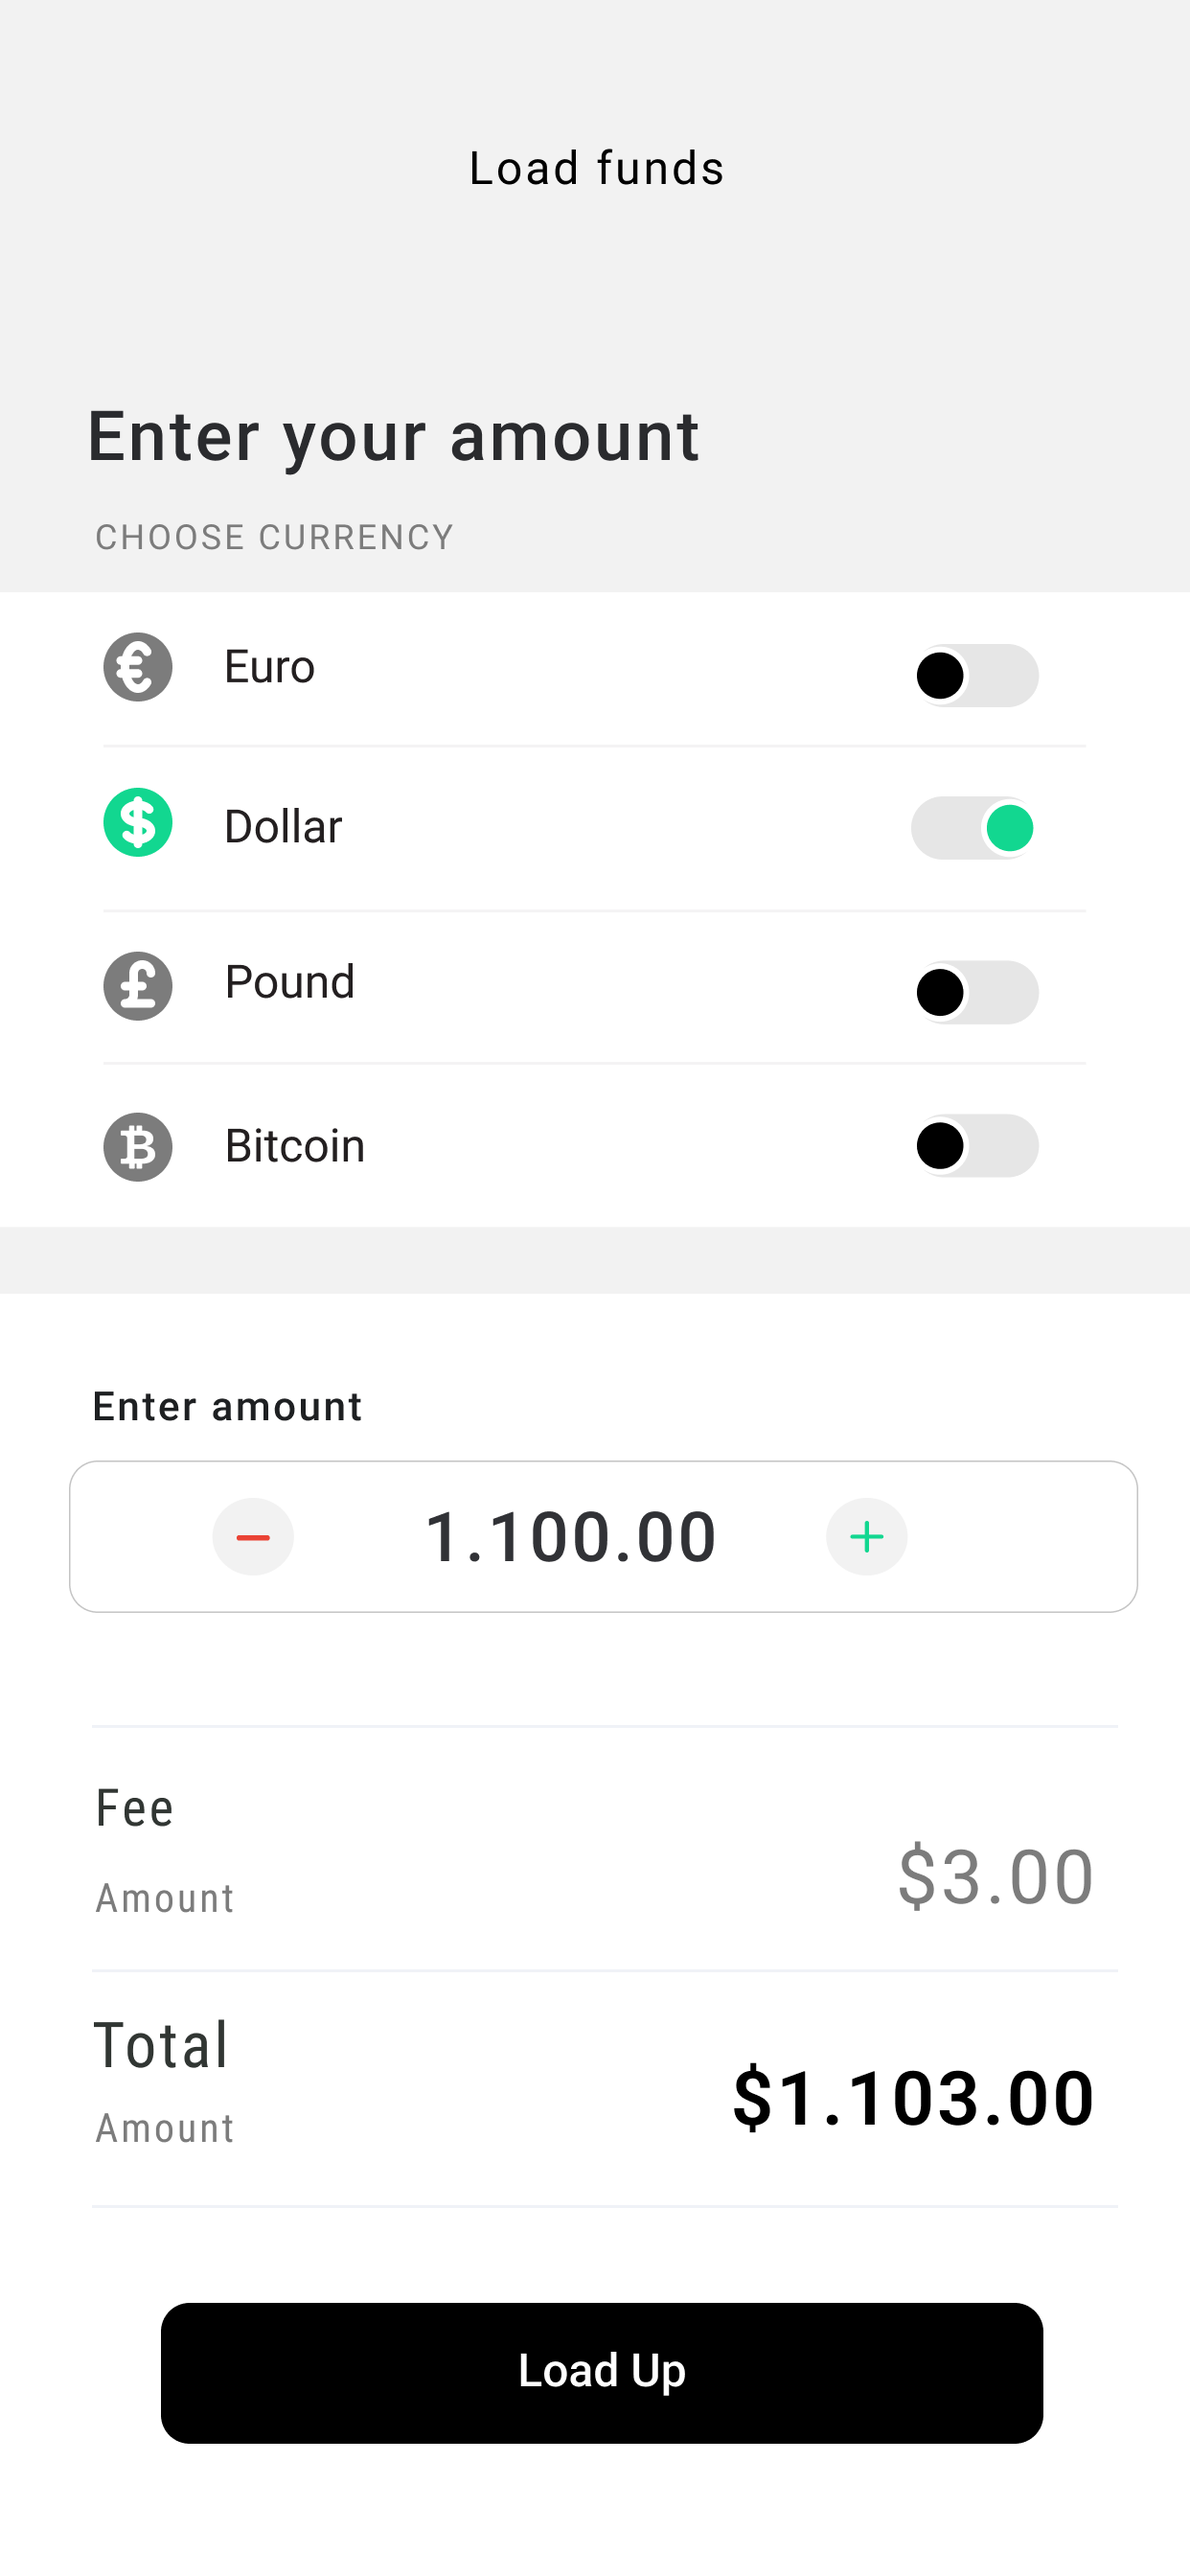
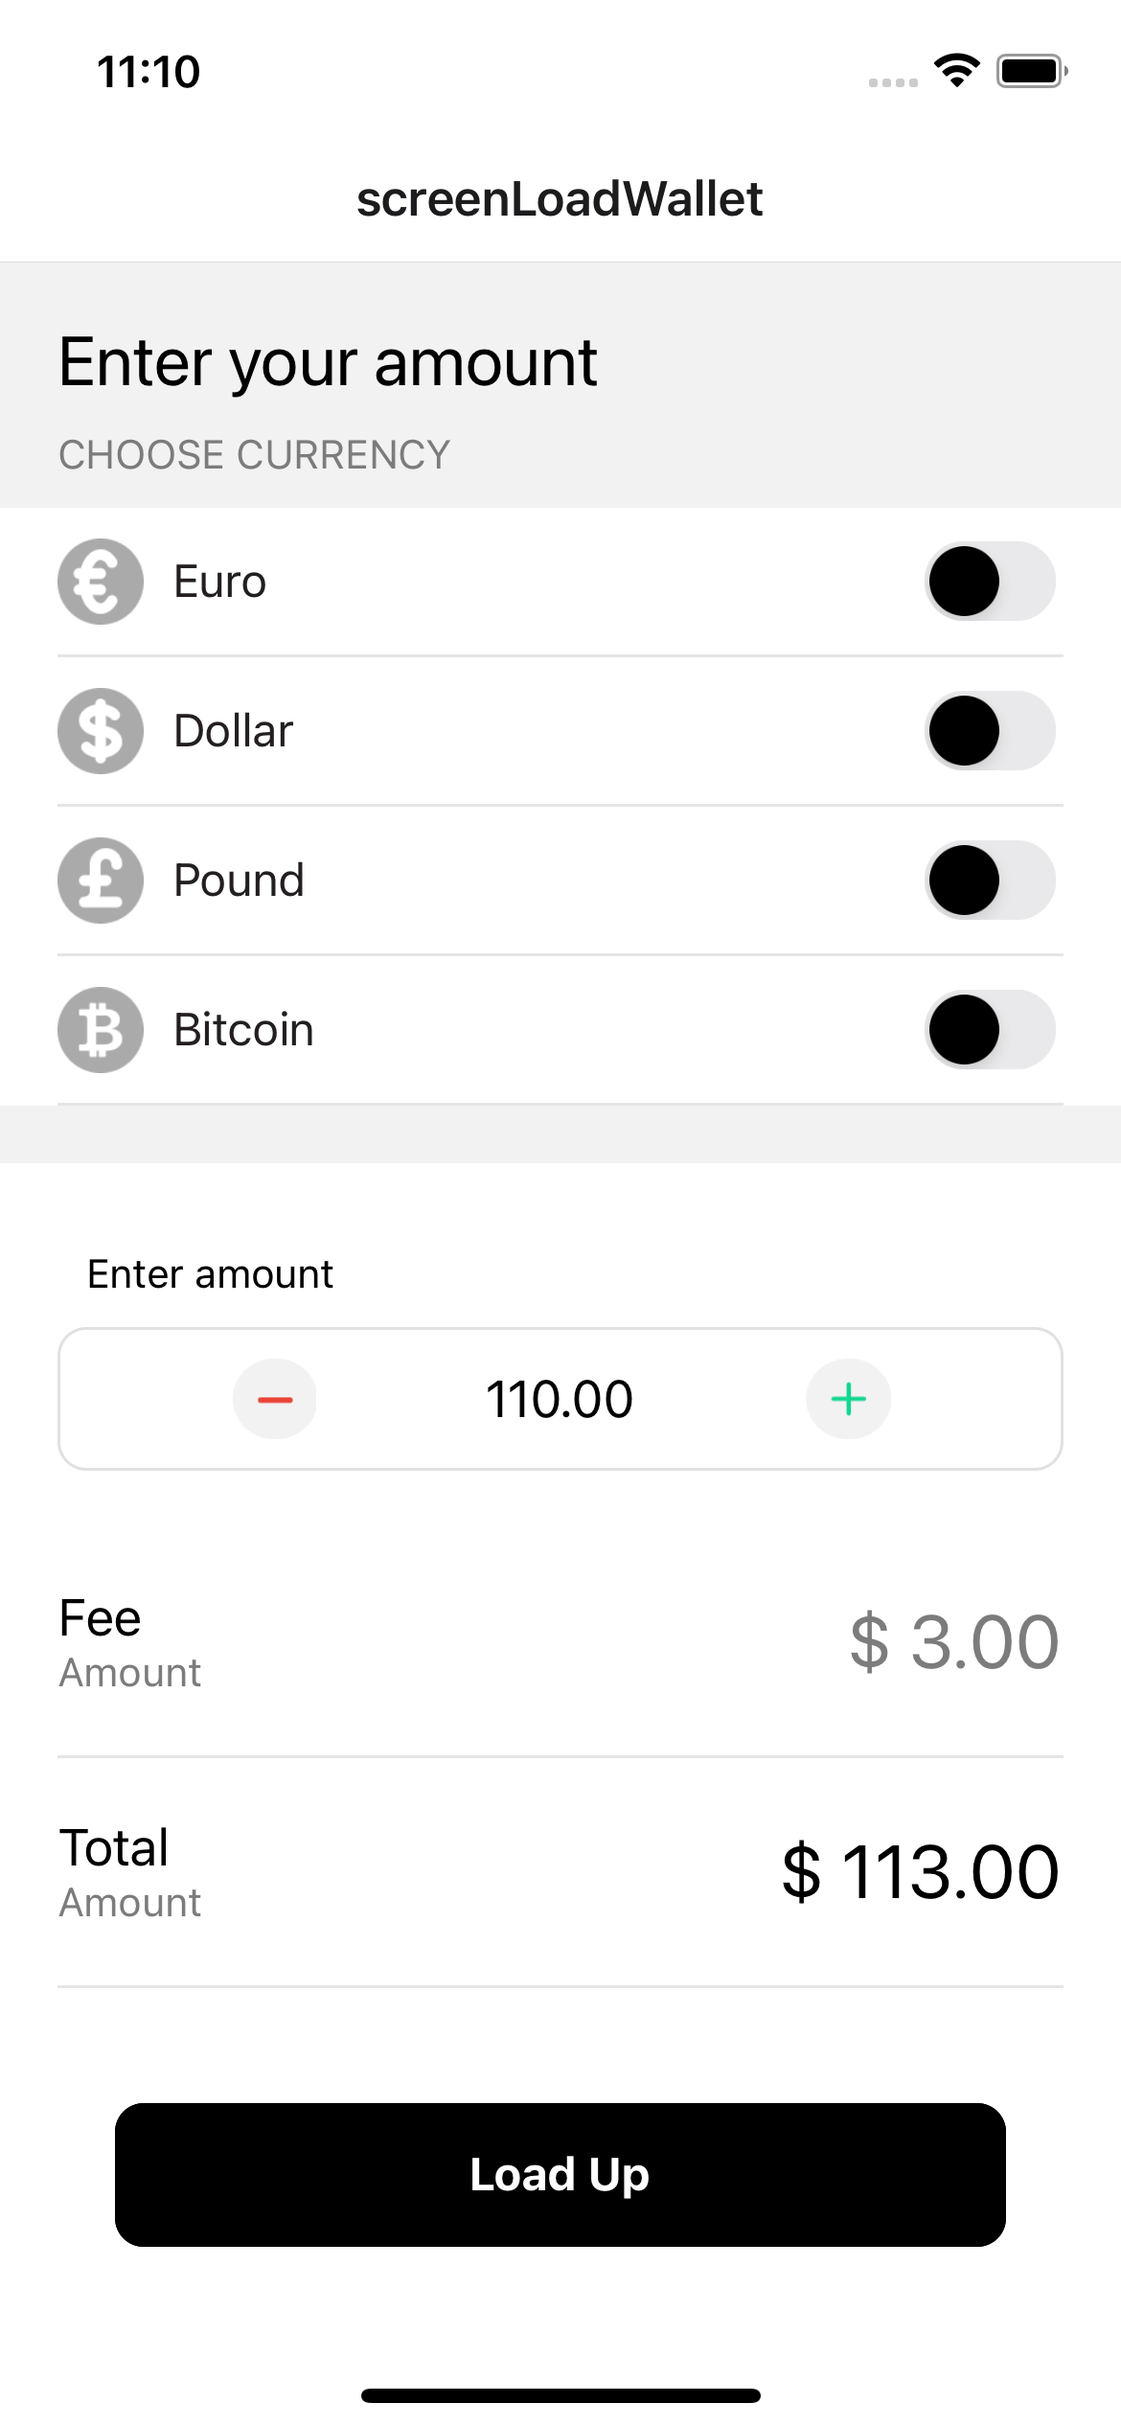
load wallet screen added

diff --git a/screens/screen-load-wallet/index.js b/screens/screen-load-wallet/index.js
@@ -1,25 +1,347 @@
-import React from "react";
-import {
-  Text,
-  View,
-  StyleSheet
-} from "react-native";
+import React, { useEffect, useState } from "react";
+import { Text, View, StyleSheet, Pressable, Image, Switch } from "react-native";
 
 const LoadWallet = () => {
+  const [tokenValue, setTokenValue] = useState(110);
+  const [selectedCurrency, setSelectedCurrency] = useState();
+  const [currencies, setCurrencies] = useState([]);
+  useEffect(() => {
+    setCurrencies([
+      {
+        name: "Euro",
+        key: "EUR"
+      },
+      {
+        name: "Dollar",
+        key: "USD"
+      },
+      {
+        name: "Pound",
+        key: "GBP"
+      },
+      {
+        name: "Bitcoin",
+        key: "BTC"
+      }
+    ]);
+  }, []);
+  const icons = [
+    {
+      key: "EUR",
+      name: "Euro",
+      icon: require("./assets/euroIcon.png")
+    },
+    {
+      key: "USD",
+      name: "Dollar",
+      icon: require("./assets/dollarIcon.png")
+    },
+    {
+      key: "GBP",
+      name: "Pound",
+      icon: require("./assets/poundIcon.png")
+    },
+    {
+      key: "BTC",
+      name: "Bitcoin",
+      icon: require("./assets/bitcoinIcon.png")
+    }
+  ];
+  const getIcon = name => {
+    const find = icons.find(icon => icon.key === name);
+    if (find) {
+      return find.icon;
+    }
+  };
+  const handleCurrencyChange = currency => {
+    if (selectedCurrency === currency) {
+      setSelectedCurrency();
+    } else {
+      setSelectedCurrency(currency);
+    }
+  };
   return (
     <View style={styles.container}>
-      <Text style={styles.heading}>Load Wallet</Text>
+      <View style={styles.header}>
+        <Text style={styles.heading}>Enter your amount</Text>
+        <Text style={styles.subHeading}>Choose Currency</Text>
+      </View>
+      <View style={styles.currencyContainer}>
+        {currencies.map((currency, index) => (
+          <View key={index} style={styles.flexRow}>
+            <Image
+              source={getIcon(currency.key)}
+              style={[
+                styles.currencyIcon,
+                selectedCurrency === currency && styles.selectedCurrencyIcon
+              ]}
+            />
+            <Text style={styles.currencyText}>{currency.name}</Text>
+            <Switch
+              value={selectedCurrency === currency}
+              onValueChange={() => handleCurrencyChange(currency)}
+              trackColor={{ false: "#767577", true: "#e5e5e5" }}
+              thumbColor={selectedCurrency === currency ? "#12D790" : "#000"}
+              style={styles.switch}
+              thumbStyle={styles.switchThumb}
+            />
+          </View>
+        ))}
+      </View>
+      <View style={styles.invoiceContainer}>
+        <InputToken
+          value={tokenValue}
+          onChange={x => setTokenValue(x)}
+          step={1}
+        />
+        <View style={styles.itemContainer}>
+          <View>
+            <Text style={styles.mainText}>Fee</Text>
+            <Text style={styles.subText}>Amount</Text>
+          </View>
+          <Text style={styles.feeText}>
+            {format(3, selectedCurrency ? selectedCurrency.key : "USD", 2)}
+          </Text>
+        </View>
+        <View style={styles.itemContainer}>
+          <View>
+            <Text style={styles.mainText}>Total</Text>
+            <Text style={styles.subText}>Amount</Text>
+          </View>
+          <Text style={styles.totalText}>
+            {format(
+              tokenValue + 3,
+              selectedCurrency ? selectedCurrency.key : "USD",
+              2
+            )}
+          </Text>
+        </View>
+        <Button buttonText="Load Up" style={styles.button} />
+      </View>
     </View>
   );
 };
 const styles = StyleSheet.create({
   container: {
+    flex: 1
+  },
+  itemContainer: {
+    flexDirection: "row",
+    justifyContent: "space-between",
+    alignItems: "center",
+    height: 80,
+    borderBottomColor: "#E5E5E5",
+    borderBottomWidth: 1
+  },
+  feeText: {
+    fontSize: 26,
+    color: "#7C7C7C"
+  },
+  mainText: {
+    fontSize: 18,
+    color: "#000"
+  },
+  subText: {
+    fontSize: 14,
+    color: "#7C7C7C"
+  },
+  totalText: {
+    fontSize: 26,
+    color: "#000"
+  },
+  button: {
+    marginTop: 40,
+    marginHorizontal: 20
+  },
+  currencyContainer: {
+    backgroundColor: "#fff",
+    paddingHorizontal: 20
+  },
+  flexRow: {
+    flexDirection: "row",
+    justifyContent: "space-between",
+    alignItems: "center",
+    paddingVertical: 10,
+    borderBottomColor: "#E5E5E5",
+    borderBottomWidth: 1
+  },
+  currencyIcon: {
+    width: 30,
+    height: 30,
+    tintColor: "#aaa"
+  },
+  selectedCurrencyIcon: {
+    tintColor: "#12D790"
+  },
+  currencyText: {
+    fontSize: 16,
+    color: "#231F20",
     flex: 1,
-    backgroundColor: "#fff"
+    marginLeft: 10
+  },
+  invoiceContainer: {
+    backgroundColor: "#fff",
+    paddingHorizontal: 20,
+    marginTop: 20,
+    flex: 1,
+    paddingTop: 20
+  },
+  header: {
+    paddingHorizontal: 20,
+    paddingTop: 20,
+    paddingBottom: 10
   },
   heading: {
-    fontSize: 20
+    fontSize: 24,
+    color: "#000"
+  },
+  subHeading: {
+    fontSize: 14,
+    color: "#7C7C7C",
+    marginTop: 10,
+    textTransform: "uppercase"
+  },
+  switch: {
+    transform: [{ scaleX: 0.9 }, { scaleY: 0.9 }]
+  },
+  switchThumb: {
+    borderColor: "#12D790",
+    borderWidth: 1
   }
 });
 
 export default LoadWallet;
+
+const InputToken = props => {
+  const step = props.step;
+  const decrement = value => {
+    return (value -= step);
+  };
+  const increment = value => {
+    return (value += step);
+  };
+  return (
+    <View style={inputTokenStyles.container}>
+      <Text style={inputTokenStyles.heading}>Enter amount</Text>
+      <View style={inputTokenStyles.tokenValueContainer}>
+        <Pressable onPress={() => props.onChange(decrement(props.value))}>
+          <Image
+            source={require("./assets/decrementIcon.png")}
+            style={inputTokenStyles.icon}
+          />
+        </Pressable>
+        <Text style={inputTokenStyles.fnt18}>{props.value.toFixed(2)}</Text>
+        <Pressable onPress={() => props.onChange(increment(props.value))}>
+          <Image
+            source={require("./assets/incrementIcon.png")}
+            style={inputTokenStyles.icon}
+          />
+        </Pressable>
+      </View>
+    </View>
+  );
+};
+const inputTokenStyles = StyleSheet.create({
+  container: {
+    marginVertical: 10
+  },
+  heading: {
+    fontSize: 14,
+    marginLeft: 10
+  },
+  tokenValueContainer: {
+    flexDirection: "row",
+    justifyContent: "space-evenly",
+    height: 50,
+    alignItems: "center",
+    borderRadius: 10,
+    borderColor: "#e1e1e1",
+    borderWidth: 1,
+    marginVertical: 10
+  },
+  fnt18: {
+    fontSize: 18
+  },
+  icon: {
+    width: 30,
+    height: 30,
+    resizeMode: "contain"
+  }
+});
+
+const Button = params => {
+  const backgroundColor = params.color || "#000";
+  const textColor = params.textColor || "#fff";
+  const btnStyle = {
+    backgroundColor: backgroundColor,
+    borderColor: params.outlineColor || backgroundColor,
+    borderWidth: 1
+  };
+  const btnText = {
+    color: textColor
+  };
+  return (
+    <View style={[buttonStyles.btnContainer, params.style]}>
+      <View style={!params.hideShadow ? buttonStyles.shadowContainer : null}>
+        <Pressable
+          style={[buttonStyles.btn, btnStyle]}
+          onPress={params.onPress}>
+          <Text style={[buttonStyles.btnText, btnText]}>
+            {params.buttonText}
+          </Text>
+          <View style={styles.childrenContainer}>{params.children}</View>
+        </Pressable>
+      </View>
+    </View>
+  );
+};
+
+const buttonStyles = StyleSheet.create({
+  btnContainer: {
+    justifyContent: "center"
+  },
+  shadowContainer: {
+    shadowColor: "rgba(0, 0, 0, 0.5)",
+    elevation: 10,
+    backgroundColor: "#fff",
+    borderRadius: 10
+  },
+  btn: {
+    height: 50,
+    padding: 10,
+    paddingHorizontal: 25,
+    borderRadius: 10,
+    justifyContent: "center",
+    alignItems: "center",
+
+    flexDirection: "row"
+  },
+  btnText: {
+    color: "#fff",
+    fontSize: 16,
+    fontWeight: "bold"
+  },
+  childrenContainer: {
+    justifyContent: "center",
+    alignItems: "center"
+  }
+});
+
+const format = (value, currency, precesion) => {
+  const parts = value && value.toFixed(precesion).toString().split(".");
+  if (parts) {
+    parts[0] = parts[0].replace(/\B(?=(\d{3})+(?!\d))/g, ",");
+    switch (currency) {
+      case "USD":
+        return "$ " + parts.join(".");
+      case "BTC":
+        return parts.join(".") + " BTC";
+      case "EUR":
+        return "€ " + parts.join(".");
+      case "GBP":
+        return "£ " + parts.join(".");
+      default:
+        return parts.join(".");
+    }
+  }
+};

diff --git a/modules/index.js b/modules/index.js
@@ -2,7 +2,7 @@ import mods from "./*/index.js";
 import { getModules } from "./modules.js";
 
 export const modules = getModules(mods);
-export const initialRoute = "screenLinkBankAccount";
+export const initialRoute = "screenLoadWallet";
 // export const initialRoute = modules[0].value.title;
 export const slices = modules
   .filter(mod => mod.value.slice)
